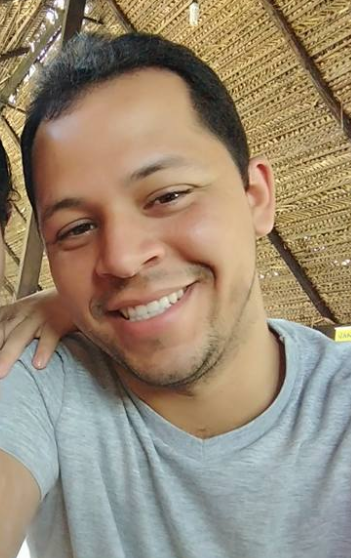
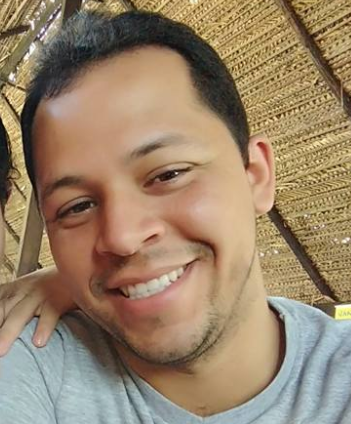
remove content component

diff --git a/src/About.tsx b/src/About.tsx
@@ -1,7 +1,10 @@
-import { useEffect, useRef, useState } from 'react';
+import { useEffect, useState } from 'react';
 import { Flex, Text, Image, Box, Divider, Grid, Link, Icon, Progress, GridItem } from '@chakra-ui/react';
-import Typed from 'react-typed';
+
 import VisibilitySensor from "react-visibility-sensor";
+import Typed from 'react-typed';
+
+import meImg from './images/g1.png'
 import reactImg from './images/reactjs.png'
 import cssImg from './images/css-3.png'
 import htmlImg from './images/html-5.png'
@@ -72,8 +75,7 @@ export function About(){
                     >
                         <Flex>
                             <Image 
-                                src="https://avatars.githubusercontent.com/u/17955465?v=4"
-                                w="6rem"
+                                src={meImg}
                                 h="6rem"
                                 borderRadius="0.5rem"
                                 border="4px solid #0BC5EA"

diff --git a/src/Home.tsx b/src/Home.tsx
@@ -1,7 +1,7 @@
 import { Flex, Text, Box, Button, Image, Icon } from '@chakra-ui/react';
 
 import {TiArrowDownThick} from 'react-icons/ti'
-import IImg from './images/g1.png'
+import IImg from './images/me.jpg'
 import Typed from 'react-typed';
 
 export function Home(){
